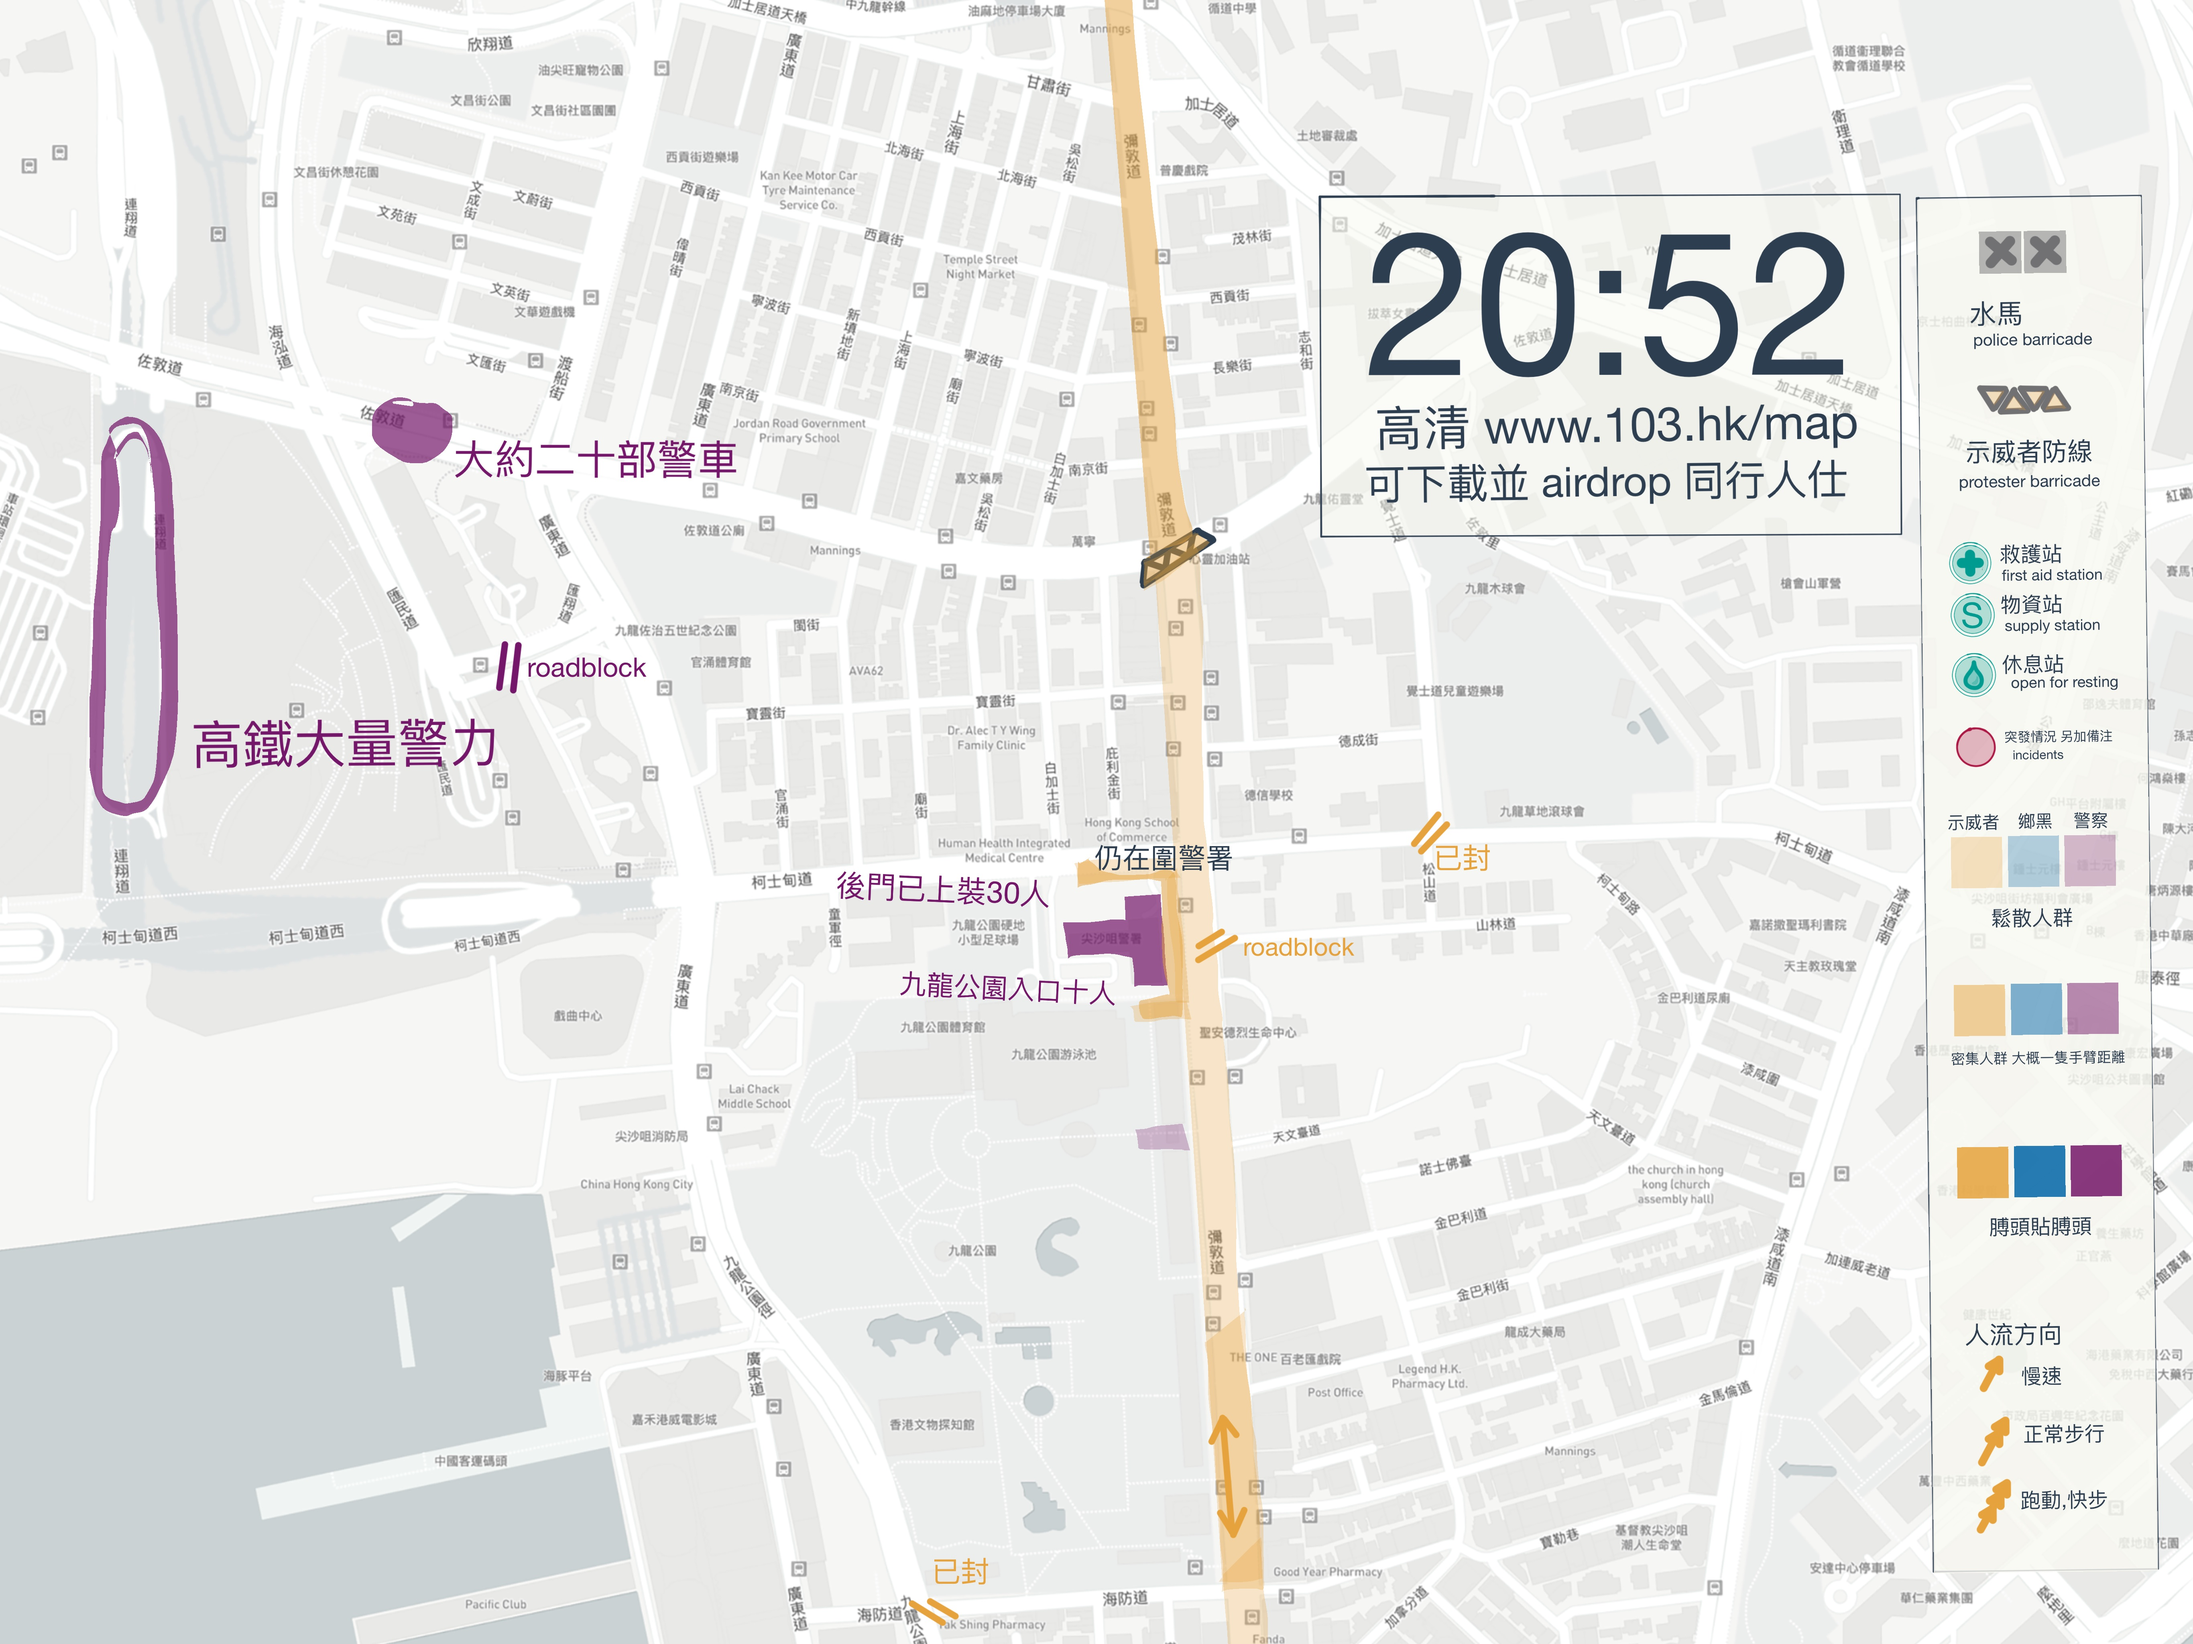
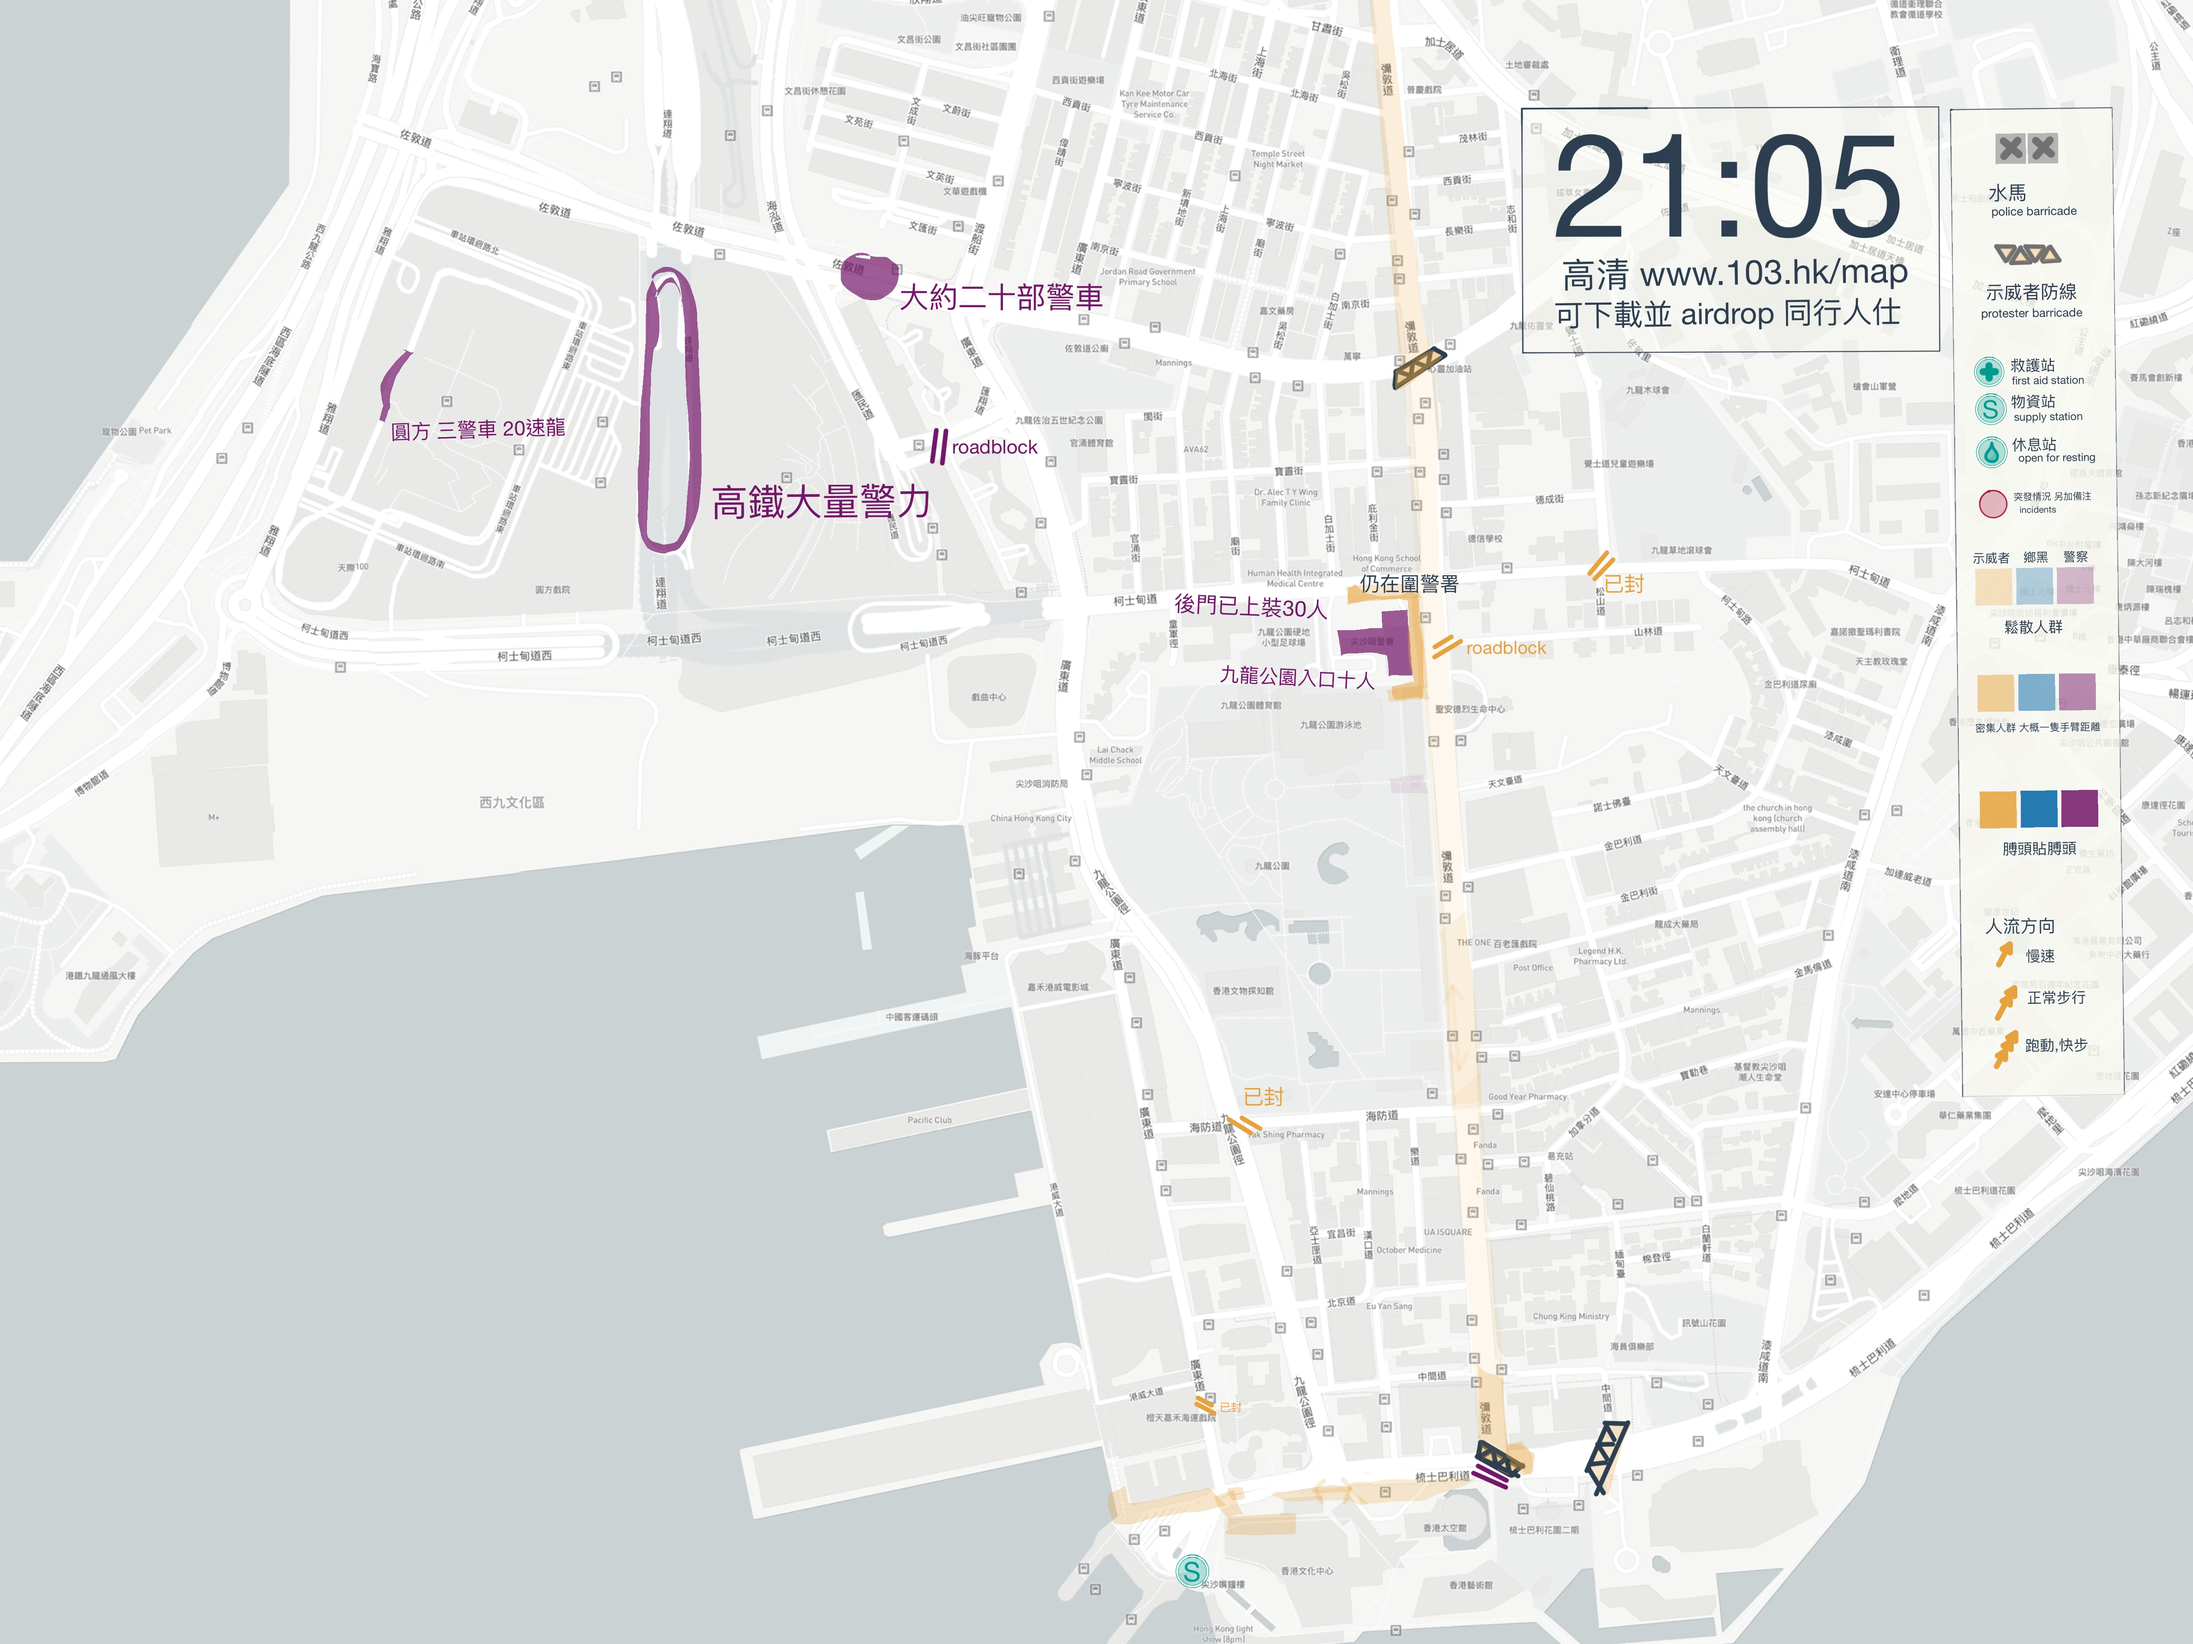
2105

diff --git a/docs/map/README.md b/docs/map/README.md
@@ -16,6 +16,8 @@
 
 ## 地圖 Map
 
+21:00 睇嚟大家都開始散喇, 我哋都大概做個半個鐘左右就完場.
+
 <center>
 
 ![](/now.jpg)
